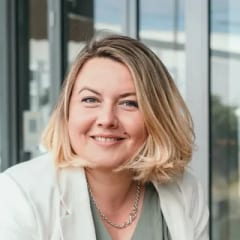
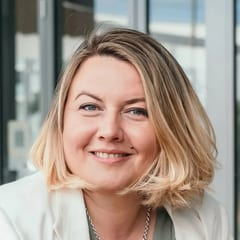
fix(card): use the /start photo framing
Lena prefers the portrait framing on /start, so /card now renders
lena-portrait.webp at the same size and offsets in the same circle.
A tighter crop was tried first and rejected. The vCard contact photo
is cut from the same region of the portrait, so both match.

Claude-Session: https://claude.ai/code/session_01FjFFVpW12BLpKD85EHSxBn

diff --git a/src/app/card/page-content.tsx b/src/app/card/page-content.tsx
@@ -3,7 +3,7 @@
 import { useState } from "react";
 import Link from "next/link";
 import Image from "next/image";
-import avatarImg from "../../../public/images/lena-avatar.webp";
+import portraitImg from "../../../public/images/lena-portrait.webp";
 import {
   ArrowRight,
   Briefcase,
@@ -104,17 +104,21 @@ export default function CardContent() {
           <Image src="/images/valar-logo.webp" alt="Valar" fill sizes="150px" priority className="object-contain" />
         </div>
 
-        {/* lena-avatar.webp is already a face-centred square crop, so a plain
-            cover fill works here without the offset trick /start needs. */}
+        {/* Exactly the photo and framing from /start, which Lena prefers: the
+            half-body portrait rendered at 2.6x the circle and offset onto the
+            face. A tighter crop was tried here and rejected, so do not re-crop.
+            If the portrait is replaced, re-tune width/height and left/top
+            together, as on /start. */}
         <div className="mt-9 relative h-32 w-32 overflow-hidden rounded-full ring-2 ring-valar-amber ring-offset-4 ring-offset-valar-navy">
           <Image
-            src={avatarImg}
+            src={portraitImg}
             alt="Lena Bykova"
-            fill
-            sizes="128px"
+            width={333}
+            height={373}
             placeholder="blur"
             priority
-            className="object-cover"
+            className="absolute max-w-none"
+            style={{ left: "-106px", top: "-65px" }}
           />
         </div>
 
